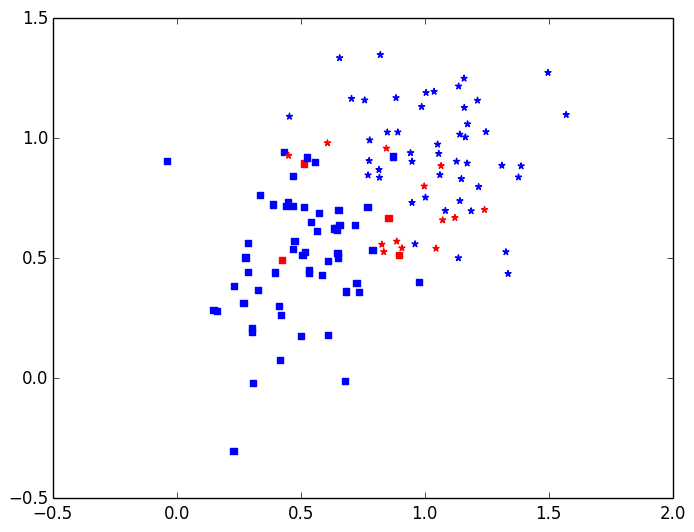
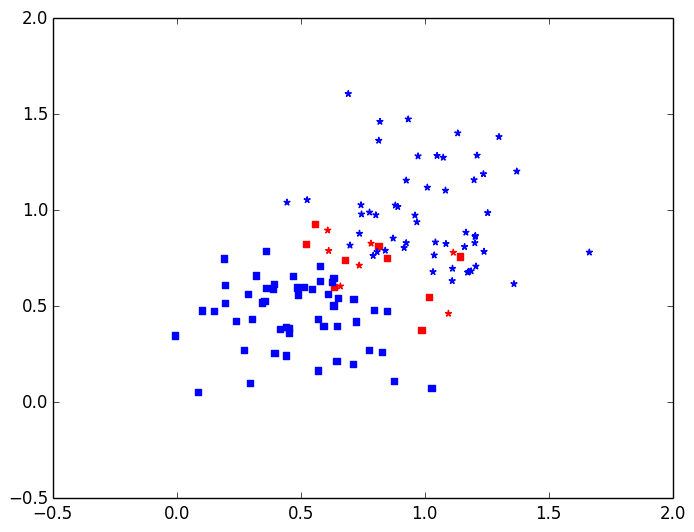
fixed misclassification problem
messed up my call to computeDistance

diff --git a/E6/6.1.py b/E6/6.1.py
@@ -8,61 +8,58 @@ def createDataAsXYL(numberperset=60):
       #data = np.append(data, [.5*(np.random.multivariate_normal([ 0, 0,-1], covariancematrix) + np.random.multivariate_normal([ 1, 1,-1], covariancematrix))], axis=0)
       data = np.append(data, [.5*(np.random.multivariate_normal([ 1, 1,-1], covariancematrix) + np.random.multivariate_normal([ 1, 1,-1], covariancematrix))], axis=0)
       
-   return data[1:].T
+   return data[1:]
 
 def getDataWithLabel(data, label):
    return data[data.T[2]==label]
 
 def findNearestNeighborIndiciesTo(data, pointindex, numberofneighbors):
-   #keep record of distances and indicies of our minimums
+   #keep record of distances and indices of our minimums
    mindistances = [999999] * numberofneighbors
-   minindicies = [pointindex] * numberofneighbors
+   minindices = [pointindex] * numberofneighbors
    for otherpointindex in range(len(data)):
       #print str(pointindex)+" --- "+str(otherpointindex)+" --- "+str(data[otherpointindex])
       if otherpointindex==pointindex:
          continue
       
       #find distance to other point
-      distance = computeDistance(data[pointindex][0], data[pointindex][1], data[otherpointindex][0], data[otherpointindex][0])
-      #print "("+str(data[pointindex][0])+","+str(data[pointindex][1])+") - ("+str(data[otherpointindex][0])+","+str(data[otherpointindex][1])+") : "+str(distance)
-      #print str(pointindex)+" - "+str(otherpointindex)+" : "+str(distance)
+      distance = computeDistance(data[pointindex][0], data[pointindex][1], data[otherpointindex][0], data[otherpointindex][1])
+      #print ""+str(pointindex)+" ("+str(data[pointindex][0])+","+str(data[pointindex][1])+") -> "+str(otherpointindex)+" ("+str(data[otherpointindex][0])+","+str(data[otherpointindex][1])+") : "+str(distance)
 
       #find the max of our minimum points
       maxmindistance = -1
       maxminindex = 0
-      for minpointindex in range(len(minindicies)):
-         #print "\t\tmpi:"+str(minpointindex)+" indicies:"+str(minindicies)+" distances:"+str(mindistances)
-         if minindicies[minpointindex] == pointindex:
-            maxminindex = minpointindex
-            maxmindistance = mindistances[minpointindex]
-            #print "\t\tsame point"
-            break
+      for minpointindex in range(len(minindices)):
+         #print "\t\tmpi:"+str(minpointindex)+" indicies:"+str(minindices)+" distances:"+str(mindistances)
          #print("\t\tmin["+str(minpointindex)+"]:"+str(mindistances[minpointindex])+ " >? min["+str(maxminindex)+"]:"+str(mindistances[maxminindex]))
          if mindistances[minpointindex] > mindistances[maxminindex]:
             maxminindex = minpointindex
             maxmindistance = mindistances[minpointindex]
             #print "\t\t\tnew maxmin min["+str(maxminindex)+"]:"+str(mindistances[maxminindex])
             
-      #print "\tmin["+str(maxminindex)+"]:"+str(mindistances[maxminindex])+" minindicies:"+str(minindicies)+" mindistances:"+str(mindistances)
+      #print "\tmin["+str(maxminindex)+"]:"+str(mindistances[maxminindex])+" minindices:"+str(minindices)+" mindistances:"+str(mindistances)
 
       #replace max with this new value if closer
       #print "\tnewdistance: "+str(distance)+" <? olddistance: "+str(mindistances[maxminindex])
       if distance < mindistances[maxminindex]:
          mindistances[maxminindex] = distance
-         minindicies[maxminindex] = otherpointindex
-         #print "\t\tadded to minindicies["+str(maxminindex)+"]:"+str(otherpointindex)+" mindistances["+str(maxminindex)+"]:"+str(distance)
+         minindices[maxminindex] = otherpointindex
+         #print "\t\tadded to minindices["+str(maxminindex)+"]:"+str(otherpointindex)+" mindistances["+str(maxminindex)+"]:"+str(distance)
       
-   return minindicies
+   return minindices
 
-def computeDistance(ax,ay,bx,by):
+def computeDistance(ax, ay, bx, by):
    return np.sqrt((ax-bx)**2 + (ay-by)**2)
    
    
 #6.1
-data = createDataAsXYL(60).T
+data = createDataAsXYL(60)
+#print data
 
-for k in [1,3,5]:
+for k in [1, 3, 5]:
    classifiedasones = [None] * len(data)
+   
+   #find the classifications
    for centerpointindex in range(len(data)):
       classifications = data[ findNearestNeighborIndiciesTo(data, centerpointindex, k) ].T[2]
       onespercentage = np.sum( (classifications + 1)*.5 ) / k
@@ -70,9 +67,11 @@ for k in [1,3,5]:
 
       classifiedasones[centerpointindex] = onespercentage > .5
    #print np.asarray(classifiedasones)
-   #print len(data[np.asarray(classifiedasones)]),len(data[np.asarray(classifiedasones)==False])
+   #print len(data[np.asarray(classifiedasones)]), len(data[np.asarray(classifiedasones)==False])
    ones = data[np.asarray(classifiedasones)]
    zeros = data[np.asarray(classifiedasones)==False]
+   #print "ones:\n"+str(ones)
+   #print "zeros:\n"+str(zeros)
 
    mplt.scatter(getDataWithLabel(zeros,  1).T[0], getDataWithLabel(zeros,  1).T[1], color='red',  marker='s')        #generated as  1, marked as -1
    mplt.scatter(getDataWithLabel(ones,   1).T[0], getDataWithLabel(ones,   1).T[1], color='blue', marker='s')        #generated as  1, marked as  1
